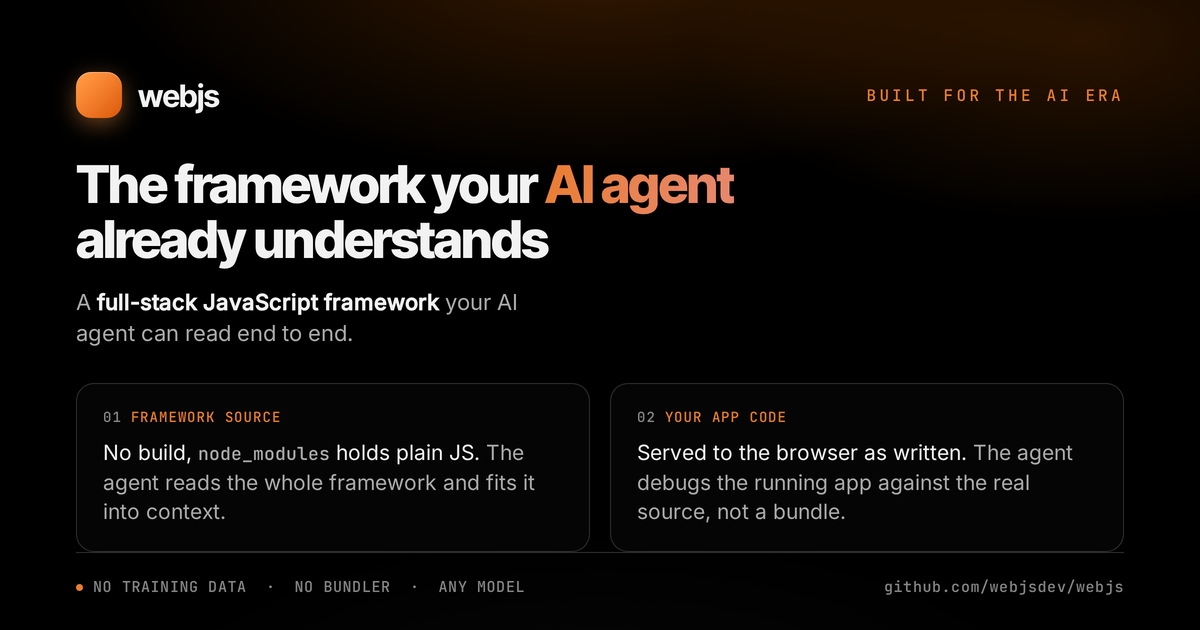
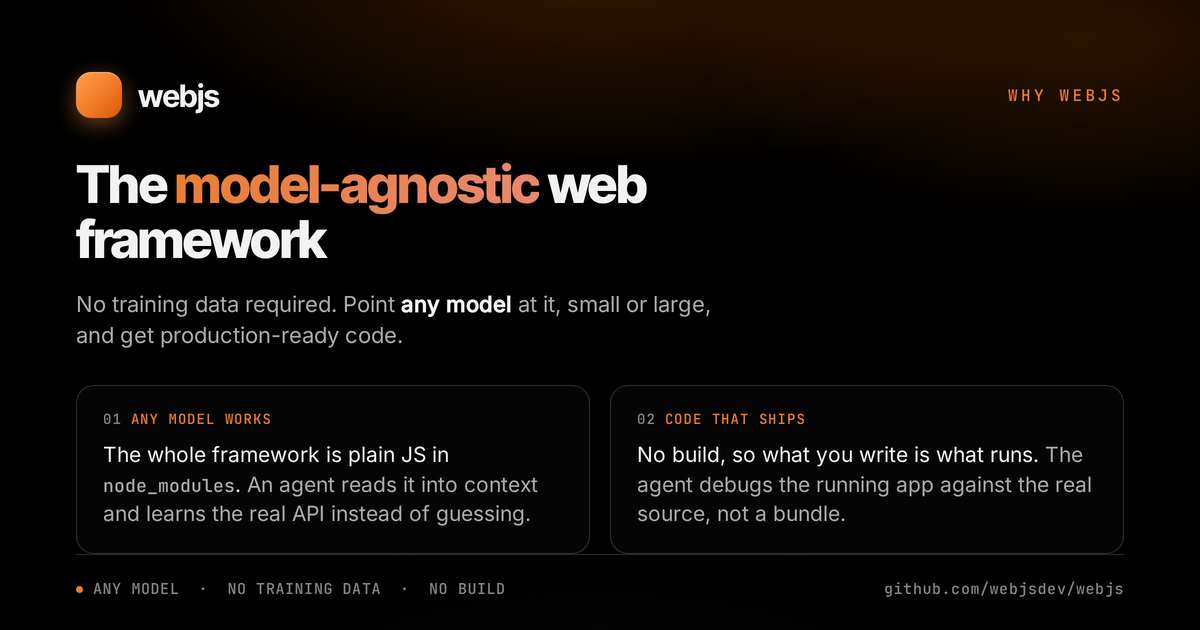
feat(website): make the OG cards lead with the user benefit
* feat(website): make the OG cards lead with the user benefit

Both social cards described the framework's mechanism (AI agents read the
source, no bundler) before saying what the reader actually gets out of it.
A card is read in a timeline by someone who has never heard of WebJs, so
it has to answer 'what do I get' first.

Home card now leads with 'Any AI model. Production-ready code.' and the
/why card with 'The model-agnostic web framework', keeping only the two
technical facts that make the claim credible. og:image:alt on both pages
now describes what the card says rather than repeating the page title.

* feat(website): give the home OG card the two-benefit grid

The home card carried only a headline and a lede while /why had the
two-card grid, so the pair did not read as one system. It now shares the
grid, with a deliberately broader split: this is the site-wide default
card (it also serves /blog, /articles and /compare), so one card covers
what the agent gets and the other what the shipped app gets, leaving
/why to make the model-agnostic argument.

Headline drops to 52px to match /why, so both cards land their headline,
sub, grid and footer on identical baselines.

* feat(website): put the model-agnostic stance on the home page

The social cards now lead with the benefit (any model ships production-
ready code, no training data needed) while the live home page still
opened on the mechanism, so a click from an unfurl landed on a different
[…]

diff --git a/website/app/page.ts b/website/app/page.ts
@@ -32,7 +32,7 @@ export const metadata = {
       '@type': 'WebSite',
       name: 'WebJs',
       url: SITE_URL,
-      description: 'An AI-first, web-components-first full-stack web framework with no build step.',
+      description: 'A model-agnostic, web-components-first full-stack web framework with no build step, readable end to end by any AI model without training data.',
     },
     {
       '@context': 'https://schema.org',
@@ -159,13 +159,15 @@ export default function LandingPage() {
 
     <main id="main" tabindex="-1" class="focus:outline-none">
     <section class="text-center px-6 pt-[clamp(48px,7vw,96px)] pb-10 md:pb-18">
-      <h1 class="font-display font-extrabold text-display leading-[1.04] tracking-[-0.035em] mx-auto mt-2 mb-4 max-w-[15ch] text-balance">
-        The web framework for AI agents
+      <h1 class="font-display font-extrabold text-display leading-[1.04] tracking-[-0.035em] mx-auto mt-2 mb-4 max-w-[17ch] text-balance">
+        Production-ready code from any AI model
       </h1>
       <p class="text-lede leading-[1.6] text-fg-muted max-w-[56ch] mx-auto mb-8 text-pretty">
-        WebJs is a full-stack framework built on web components, SSR, and
-        progressive enhancement, with zero build step. Standards that outlast
-        frameworks. Runs on Node 24+ or Bun.
+        WebJs is a full-stack web framework that needs no training data. An
+        agent reads the whole stack end to end, so small models and large ones
+        both ship production-ready architecture and a design system from the
+        very first line of code. Web components and SSR, zero build step, on
+        Node 24+ or Bun.
       </p>
       <div class="flex gap-3 justify-center flex-wrap mb-8">
         <a class="${BTN} bg-accent text-accent-fg border-transparent shadow-[var(--shadow-glow)] hover:bg-accent-hover hover:-translate-y-0.5" href=${DOCS_URL + '/docs/getting-started'} target="_blank" rel="noopener noreferrer">
@@ -331,9 +333,9 @@ export default function LandingPage() {
     <section class="py-16">
       <div class="max-w-[1080px] mx-auto px-6">
         <div class="max-w-[720px] mx-auto mb-12 text-center">
-          <div class=${KICKER}>Small by design</div>
-          <h2 class="font-display font-bold text-h2 leading-[1.12] tracking-[-0.03em] my-3 text-balance">Light enough for AI</h2>
-          <p class="text-fg-muted text-[1.05rem] leading-[1.6] m-0">A zero build step means the source you read is what runs. Because the framework ships without compilation layers, an AI agent can read and reason about the entire WebJs source end to end, straight from node_modules.</p>
+          <div class=${KICKER}>Model agnostic</div>
+          <h2 class="font-display font-bold text-h2 leading-[1.12] tracking-[-0.03em] my-3 text-balance">No training data required</h2>
+          <p class="text-fg-muted text-[1.05rem] leading-[1.6] m-0">An agent does not need to have seen WebJs before. A zero build step means the source it reads is the source that runs, and the whole framework is plain JavaScript under node_modules, small enough to fit in a context window. Any model learns the real API from the code instead of recalling one, so a smaller or cheaper model gets the same result. <a class="text-accent font-medium underline underline-offset-[3px] decoration-[color-mix(in_oklch,var(--color-accent)_45%,transparent)] hover:decoration-current transition-colors" href="/why">See the full argument</a>.</p>
         </div>
         <div class="grid gap-px bg-border grid-cols-1 min-[560px]:grid-cols-2 min-[900px]:grid-cols-4 rounded-2xl border border-border overflow-hidden shadow-[var(--shadow-sm)]">
           ${STATS.map(s => html`

diff --git a/website/app/layout.ts b/website/app/layout.ts
@@ -18,7 +18,11 @@ import { siteFooter } from '#lib/site-footer.ts';
  */
 
 const TITLE = 'WebJs - The Web Framework for AI Agents';
-const DESCRIPTION = 'A full-stack web framework built on web components, SSR, and progressive enhancement, with zero build step. Lean enough for AI agents to read end to end. File-based routing, server actions, and streaming SSR on web standards. Runs on Node 24+ or Bun.';
+const DESCRIPTION = 'A model-agnostic full-stack web framework that needs no training data. An agent reads the whole stack end to end, so small models and large ones both ship production-ready architecture and a design system from the very first line of code. Web components, SSR, progressive enhancement, file-based routing, and server actions, with zero build step. Runs on Node 24+ or Bun.';
+// Describes what the social card itself SAYS (public/og.png), which is the
+// benefit-led line, not the page title. Kept in lockstep with the headline in
+// scripts/generate-og.mjs.
+const OG_IMAGE_ALT = 'WebJs, any AI model produces production-ready code';
 
 const NAV = [
   { label: 'Docs', href: DOCS_URL + '/docs/getting-started', ext: true },
@@ -51,7 +55,7 @@ export function generateMetadata(ctx: { url: string }) {
       image,
       'image:width': '1200',
       'image:height': '630',
-      'image:alt': TITLE,
+      'image:alt': OG_IMAGE_ALT,
       'site_name': 'WebJs',
     },
     twitter: { card: 'summary_large_image', title: TITLE, description: DESCRIPTION, image },

diff --git a/website/test/ssr/page-ssr.test.ts b/website/test/ssr/page-ssr.test.ts
@@ -39,5 +39,13 @@ test('home metadata is single-source and consistent across title, og, and twitte
   assert.equal(m.twitter.title, m.title, 'twitter:title matches the <title>');
   assert.equal(m.openGraph.description, m.description, 'og:description matches the meta description');
   assert.equal(m.twitter.description, m.description, 'twitter:description matches the meta description');
-  assert.equal(m.openGraph['image:alt'], m.title, 'og image alt matches the title');
+  // og:image:alt deliberately does NOT mirror the title. Alt text describes the
+  // IMAGE, and the card (public/og.png) carries its own benefit-led headline
+  // rather than the page title, so tying the two together would force one of
+  // them to be wrong. What must hold is that it stays a real description
+  // instead of silently going empty or falling back to the title.
+  const alt = m.openGraph['image:alt'];
+  assert.equal(typeof alt, 'string', 'og image alt is a string');
+  assert.ok(alt.trim().length > 20, `og image alt is a real description, got ${JSON.stringify(alt)}`);
+  assert.notEqual(alt, m.title, 'og image alt describes the card, not the page title');
 });

diff --git a/website/app/why/page.ts b/website/app/why/page.ts
@@ -34,7 +34,7 @@ export function generateMetadata(ctx: { url: string }) {
       image,
       'image:width': '1200',
       'image:height': '630',
-      'image:alt': 'Why WebJs, the framework your AI agent already understands',
+      'image:alt': 'Why WebJs, the model-agnostic web framework that needs no training data',
       'site_name': 'WebJs',
     },
     twitter: { card: 'summary_large_image', title, description, image },
